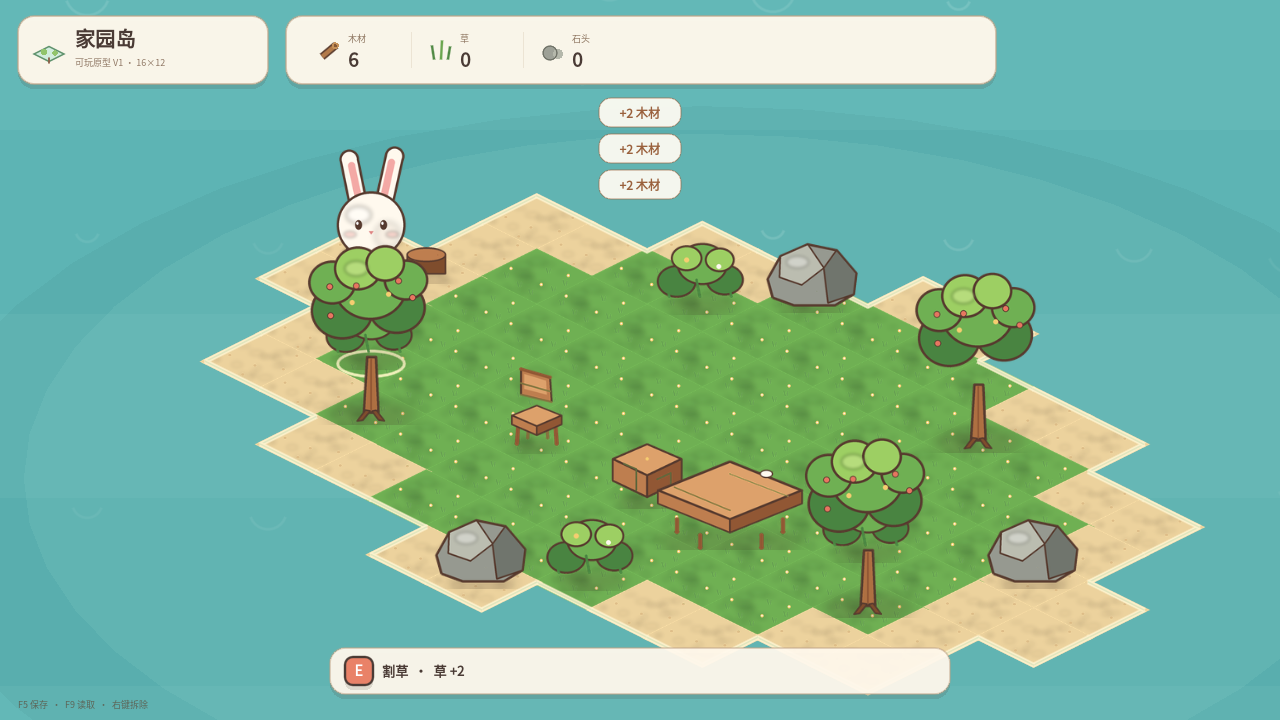
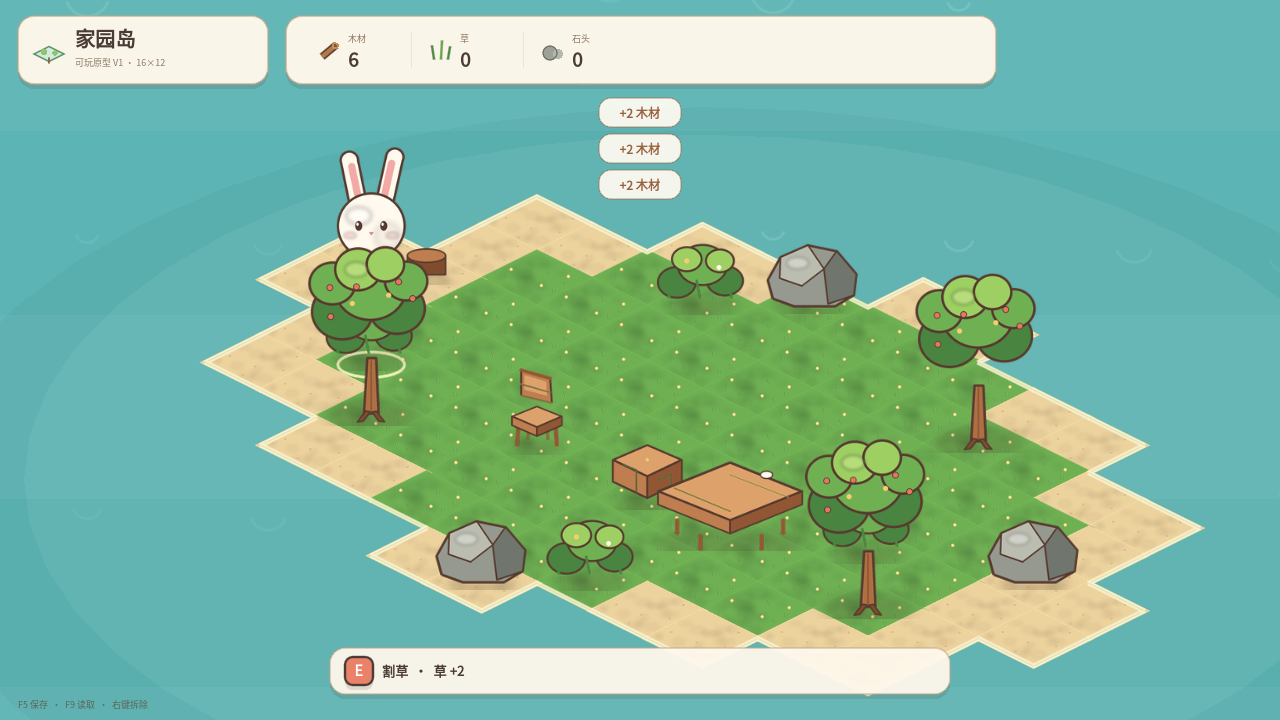
chore: add stage 02 asset preparation pipeline

diff --git a/home_island/tools/prepare_stage02.py b/home_island/tools/prepare_stage02.py
@@ -1,0 +1,90 @@
+"""Stage 02 asset post-processing.
+
+Converts AI magenta-screen frames into game-ready transparent PNGs and
+normalizes rabbit frames onto one canvas so the feet stay aligned.
+
+This script only removes the background and aligns existing AI artwork; it does
+not draw characters or props.
+"""
+from __future__ import annotations
+
+import json
+import os
+from PIL import Image
+
+ROOT = os.path.abspath(os.path.join(os.path.dirname(__file__), "..", ".."))
+STAGE = os.path.join(ROOT, "assets", "art_staging", "stage_02")
+
+
+def cut_magenta(path: str) -> Image.Image:
+    im = Image.open(path).convert("RGB")
+    hsv = im.convert("HSV")
+    src = im.load()
+    hp = hsv.load()
+    out = Image.new("RGBA", im.size, (0, 0, 0, 0))
+    dst = out.load()
+    for y in range(im.height):
+        for x in range(im.width):
+            h, s, v = hp[x, y]
+            hue = h * 360.0 / 255.0
+            sat = s / 255.0
+            val = v / 255.0
+            if not (300.0 <= hue <= 350.0 and sat >= 0.35 and val >= 0.05):
+                r, g, b = src[x, y]
+                dst[x, y] = (r, g, b, 255)
+    return out
+
+
+def normalize_frame(src: str, dst: str, canvas=(360, 420), max_h=350) -> None:
+    im = cut_magenta(src)
+    bbox = im.getbbox()
+    if bbox is None:
+        raise RuntimeError("empty foreground: " + src)
+    im = im.crop(bbox)
+    scale = min(1.0, float(max_h) / im.height)
+    nw, nh = max(1, round(im.width * scale)), max(1, round(im.height * scale))
+    im = im.resize((nw, nh), Image.LANCZOS)
+    out = Image.new("RGBA", canvas, (0, 0, 0, 0))
+    x = (canvas[0] - nw) // 2
+    y = canvas[1] - 12 - nh
+    out.alpha_composite(im, (x, y))
+    out.save(dst)
+
+
+def normalize_prop(src: str, dst: str, max_side: int = 900, pad: int = 16) -> None:
+    im = cut_magenta(src)
+    bbox = im.getbbox()
+    if bbox is None:
+        raise RuntimeError("empty foreground: " + src)
+    im = im.crop(bbox)
+    scale = min(1.0, float(max_side) / max(im.width, im.height))
+    if scale < 1.0:
+        im = im.resize((max(1, round(im.width * scale)), max(1, round(im.height * scale))), Image.LANCZOS)
+    out = Image.new("RGBA", (im.width + pad * 2, im.height + pad * 2), (0, 0, 0, 0))
+    out.alpha_composite(im, (pad, pad))
+    out.save(dst)
+
+
+def main() -> None:
+    plan_path = os.path.join(STAGE, "records", "asset_plan.json")
+    if not os.path.exists(plan_path):
+        raise SystemExit("missing " + plan_path)
+    plan = json.load(open(plan_path, encoding="utf-8"))
+    for item in plan.get("rabbit_frames", []):
+        src = os.path.join(STAGE, item["input"])
+        if os.path.exists(src):
+            dst = os.path.join(STAGE, item["output"])
+            os.makedirs(os.path.dirname(dst), exist_ok=True)
+            normalize_frame(src, dst)
+            print("frame", os.path.basename(dst))
+    for item in plan.get("props", []):
+        src = os.path.join(STAGE, item["input"])
+        if os.path.exists(src):
+            dst = os.path.join(STAGE, item["output"])
+            os.makedirs(os.path.dirname(dst), exist_ok=True)
+            normalize_prop(src, dst)
+            print("prop", os.path.basename(dst))
+
+
+if __name__ == "__main__":
+    main()
